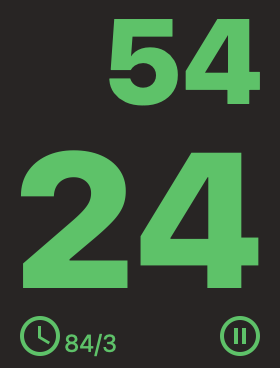
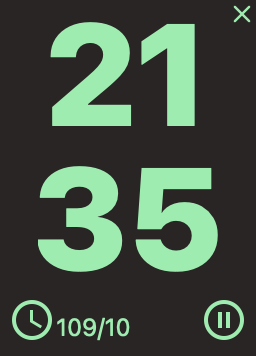
优化界面排版和更新界面截图

diff --git a/src/App.tsx b/src/App.tsx
@@ -124,7 +124,7 @@ function App() {
         <TimeCounterCom />
         <div className="flex flex-row justify-center mt-1">
           <TodayCountCom />
-          <div className="flex flex-row flex-1 grow justify-end space-x-1 mr-2">
+          <div className="flex flex-row flex-1 grow justify-end space-x-1 mr-1">
             <RefreshCom />
             <OperactionCom />
             {/* <WorkTypeCom /> */}

diff --git a/src/components/TodayCountCom.tsx b/src/components/TodayCountCom.tsx
@@ -11,7 +11,7 @@ function TodayCountCom() {
     const workType = useCountStore((state) => state.workType)
 
     // const className = "absolute bottom-1 left-1 flex align-bottom"
-    const className = "flex flex-row flex-none ml-2"
+    const className = "flex flex-row flex-none ml-1"
     console.log("render today count: ", today, total)
 
     const onClick = useCallback(() => {
